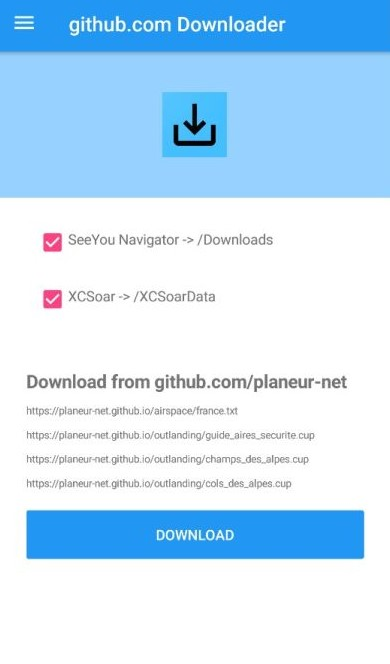
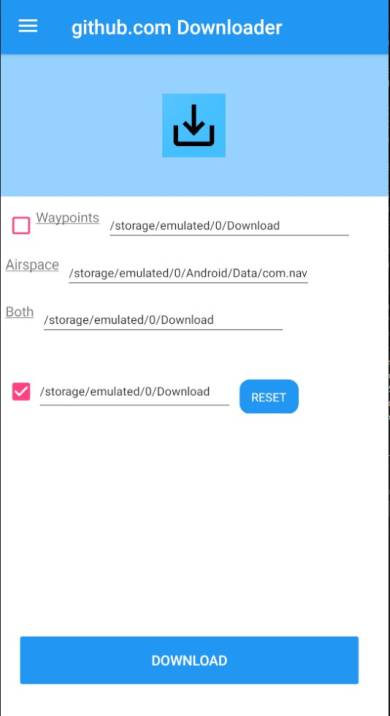
Update Documentation

diff --git a/AirspaceDownloader/AirspaceDownloader/ViewModels/MainViewModel.cs b/AirspaceDownloader/AirspaceDownloader/ViewModels/MainViewModel.cs
@@ -13,6 +13,7 @@ namespace AirspaceDownloader.ViewModels
     public class MainViewModel : BaseViewModel
     {
         public static string AirspaceFileUrl { get; } = "https://planeur-net.github.io/airspace/france.txt";
+        public static string AirspaceOpenAirStandardFileUrl { get; } = "https://planeur-net.github.io/airspace/france_openair_standard.txt";
         public static string GuideDesAiresFileUrl { get; } = "https://planeur-net.github.io/outlanding/guide_aires_securite.cup";
         public static string ChampsDesAlpesFileUrl { get; } = "https://planeur-net.github.io/outlanding/champs_des_alpes.cup";
         public static string ColsDesAlpesFileUrl { get; } = "https://planeur-net.github.io/outlanding/cols_des_alpes.cup";
@@ -25,6 +26,7 @@ namespace AirspaceDownloader.ViewModels
         public List<FileDescription> ListFilesToDownload = new List<FileDescription> {
             new FileDescription(XCsoarCombinedFileURL, true, true),
             new FileDescription(AirspaceFileUrl, false),
+            new FileDescription(AirspaceOpenAirStandardFileUrl, false),
             new FileDescription(GuideDesAiresFileUrl, false),
             new FileDescription(ChampsDesAlpesFileUrl, false),
             new FileDescription(ColsDesAlpesFileUrl, false),

diff --git a/README.md b/README.md
@@ -10,14 +10,34 @@ https://github.com/planeur-net/outlanding
 ## Files
 Downloads the following files:  
 https://planeur-net.github.io/airspace/france.txt  
+https://planeur-net.github.io/airspace/france_openair_standard.txt  
 https://planeur-net.github.io/outlanding/guide_aires_securite.cup  
 https://planeur-net.github.io/outlanding/champs_des_alpes.cup  
-https://planeur-net.github.io/outlanding/cols_des_alpes.cup 
+https://planeur-net.github.io/outlanding/cols_des_alpes.cup  
+https://planeur-net.github.io/outlanding/mountain_peaks_FR.cup  
+https://planeur-net.github.io/outlanding/mountain_peaks_CH.cup  
+https://planeur-net.github.io/outlanding/mountain_peaks_IT.cup  
+https://planeur-net.github.io/outlanding/combined_guide+champs.xcsoar.zip  
+https://planeur-net.github.io/outlanding/Misc/Ludo_waypoints.cup
 
 ## Download locations
 Files are downloaded and saved to
-| Option | File location |
-|---|---|
-| SeeYou Navigator | /Downloads |
-| XCSoar | /XCSoarData |
+| Option | Type | File location |
+|---|---|---|
+| SeeYou Navigator | Waypoints | /Android/Data/com.naviter.SeeYouNavigator/files/custom_waypoint |
+| | Airspace | /Android/Data/com.naviter.SeeYouNavigator/files/custom_airspace |
+| | Both | /Donwload |
+| XCSoar | Airspace + Waypoints | /XCSoarData
 
+![Dcreenshot](doc/images/main_explained.jpg)  
+
+### SeeYou Navigator
+Waypoints: Waypoints files are copied to this location on the device.
+Airspace: Airspace files are copied to this location on the device.
+Both: Both Waypoints and Airspace files are copied to this location on the device.  
+  
+The "Waypoints" and "Airspace" location allow the files to be "automatically" updated by the application. The new files are used when SeeYouNavigator is restarted.  
+The "Both" location allows you to use pick a new (never used before) file from SeeYou Navigator.
+
+## XCSoar
+XCSoar uses one file location only. Files in this location are taken into account by the application. 
